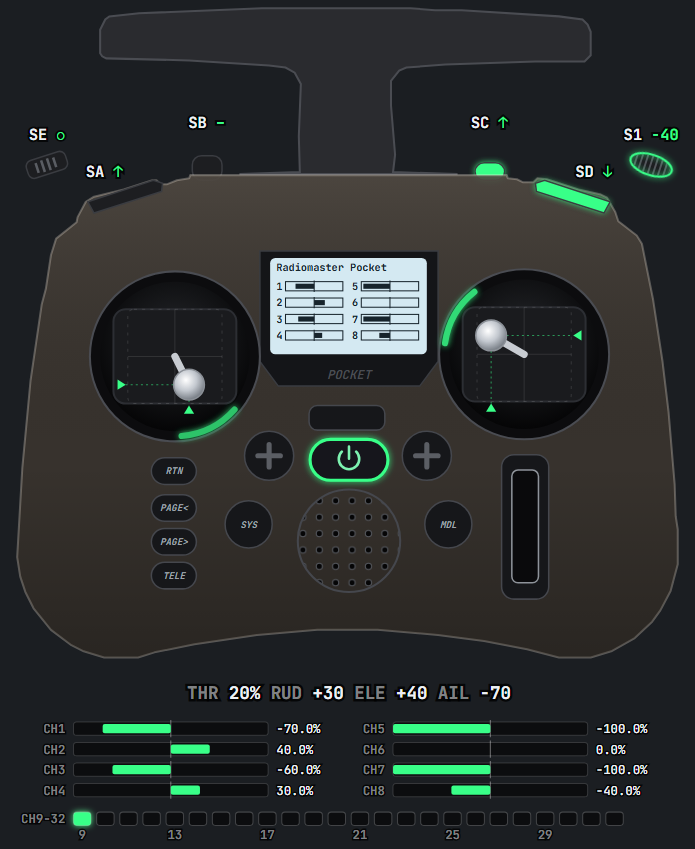
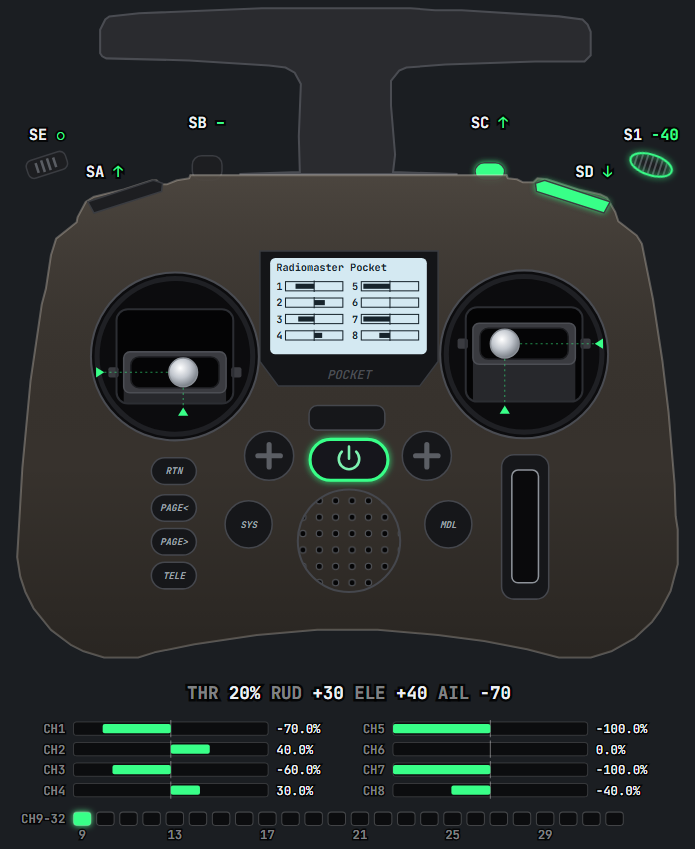
Draw the gimbals like the Pocket's; test rates at the radio's real speed
Gimbals: the Pocket's sticks aren't radial. Each has a black opening with a
grey carriage across it: the carriage (with its slot) slides up and down
with Y, and the stick rides left and right along the slot with X. Drawn
that way now, measured on the product photo, replacing the centre shaft and
rim arc that made it look like a radial joystick. Render tests check the
slot follows the knob's Y, never moves sideways, and the knob stays in it;
two new planted bugs (slot not following, knob leaving the slot) are caught.

Rate test: split into an extreme flood (at most one update per frame,
catches up within a second) and the radio's real ~1000 reports/s (last
position on screen within 60 ms, ~11 ms locally). The flood's 150 ms bound
was measuring backlog on a slow CI runner, not anything a user would see.

Changed region(s): [[0.1209, 0.3369, 0.3626, 0.5206], [0.6345, 0.3369, 0.8763, 0.49]]

diff --git a/web/index.html b/web/index.html
@@ -32,12 +32,10 @@
   .tag { fill: var(--ink); font-size: 15px; font-weight: 700; text-anchor: middle; paint-order: stroke; stroke: rgba(0,0,0,.75); stroke-width: 4px; }
   .tag .st { fill: var(--accent); }
   .knob { fill: url(#knurl); stroke: #8b9097; stroke-width: 1.5; }
-  .shaft { stroke: #c8ccd2; stroke-width: 7; stroke-linecap: round; }
   .stub { fill: #1a1b1e; stroke: #4a4c52; stroke-width: 1.5; }
   .cap { fill: url(#knurl); stroke: #8b9097; stroke-width: 1.5; }
   .caprib { stroke: rgba(0,0,0,.35); stroke-width: 1.5; }
   .trail { fill: none; stroke: var(--accent); stroke-width: 2.5; stroke-linecap: round; stroke-linejoin: round; opacity: .45; }
-  .dirarc { fill: none; stroke: var(--accent); stroke-width: 6; stroke-linecap: round; filter: url(#glow); }
   .guide { stroke: var(--accent); stroke-width: 1; stroke-dasharray: 2 3; opacity: .55; }
   .tick { fill: var(--accent); }
   .lit { fill: var(--accent) !important; filter: url(#glow); }
@@ -264,53 +262,61 @@ for (const [id, cx] of [["trimL", 423], ["trimR", 577]]) {
 }
 
 // ---------------- gimbals (front) ----------------
-// Knob position is linear in the channel value: full deflection reaches the edge of the
-// dashed travel box. Up on the stick is up on screen.
-const TRAVEL = 46, RIM = 78;
+// Drawn like the Pocket's own gimbals (measured on the product photo): a black opening in
+// the round bezel with a grey carriage across it. The carriage, with its slot, slides up
+// and down with the stick's Y; the knob rides left and right along the slot with X.
+// Both are linear in the channel value.
+const TRAVEL_X = 27, TRAVEL_Y = 26;
+const OPEN_W = 114, OPEN_H = 92;
 function buildGimbal(g, cx, cy, side) {
-  el("circle", { cx, cy, r: 83, fill: "#0c0c0e", stroke: "#4a4c52", "stroke-width": 2 }, g);
-  el("circle", { cx, cy, r: 73, fill: "url(#well)" }, g);
-  el("rect", { x: cx - 60, y: cy - 46, width: 120, height: 92, rx: 12, fill: "#1a1b1e", stroke: "#2c2e33", "stroke-width": 2 }, g);
-  el("rect", { "data-test": `travel-${side}`, x: cx - TRAVEL, y: cy - TRAVEL, width: TRAVEL * 2, height: TRAVEL * 2, rx: 6,
-               fill: "none", stroke: "rgba(255,255,255,.12)", "stroke-dasharray": "3 5" }, g);
-  el("path", { d: `M${cx - TRAVEL} ${cy} H${cx + TRAVEL} M${cx} ${cy - TRAVEL} V${cy + TRAVEL}`, stroke: "rgba(255,255,255,.10)" }, g);
-  const arc = el("path", { class: "dirarc", "data-test": `arc-${side}` }, g);
-  // value ticks: x along the bottom edge, y along the outer edge
-  const edgeX = side === "L" ? cx - TRAVEL - 7 : cx + TRAVEL + 7;
+  el("circle", { cx, cy, r: 82, fill: "#0c0c0e", stroke: "#4a4c52", "stroke-width": 2 }, g);
+  el("circle", { cx, cy, r: 76, fill: "none", stroke: "#1f2024", "stroke-width": 5 }, g);
+  const ox = cx - OPEN_W / 2, oy = cy - OPEN_H / 2;
+  el("rect", { x: ox, y: oy, width: OPEN_W, height: OPEN_H, rx: 11, fill: "#040405" }, g);
+  const clip = el("clipPath", { id: `opening-${side}` }, el("defs", {}, g));
+  el("rect", { x: ox, y: oy, width: OPEN_W, height: OPEN_H, rx: 11 }, clip);
+
+  // carriage: skirt below, slot frame, the slot itself (clipped to the opening)...
+  const inside = el("g", { "clip-path": `url(#opening-${side})` }, g);
+  const carriage = el("g", { "data-test": `carriage-${side}` }, inside);
+  el("rect", { x: cx - 50, y: cy + 14, width: 100, height: 80, fill: "#27282c" }, carriage);
+  el("rect", { x: cx - 50, y: cy - 20, width: 100, height: 40, rx: 6, fill: "#3a3b40", stroke: "#4c4e54", "stroke-width": 1.5 }, carriage);
+  el("rect", { "data-test": `slot-${side}`, x: cx - TRAVEL_X - 16, y: cy - 15, width: 2 * TRAVEL_X + 32, height: 30, rx: 8,
+               fill: "#050506", stroke: "#1c1d20", "stroke-width": 1.5 }, carriage);
+  // ...and the guide tabs it slides on, just outside the opening
+  const tabs = el("g", {}, g);
+  el("rect", { x: ox - 8, y: cy - 5, width: 10, height: 10, rx: 2, fill: "#3a3b40" }, tabs);
+  el("rect", { x: ox + OPEN_W - 2, y: cy - 5, width: 10, height: 10, rx: 2, fill: "#3a3b40" }, tabs);
+  el("rect", { x: ox, y: oy, width: OPEN_W, height: OPEN_H, rx: 11, fill: "none", stroke: "#2c2e33", "stroke-width": 2 }, g);
+
+  // test hook: the range the knob's centre covers (-1..1 on each axis)
+  el("rect", { "data-test": `travel-${side}`, x: cx - TRAVEL_X, y: cy - TRAVEL_Y, width: 2 * TRAVEL_X, height: 2 * TRAVEL_Y, fill: "none" }, g);
+
+  // value ticks: X under the opening, Y on the outer side
+  const edgeX = side === "L" ? ox - 17 : ox + OPEN_W + 17;
   const guideX = el("line", { class: "guide" }, g), guideY = el("line", { class: "guide" }, g);
   const tickX = el("path", { class: "tick", "data-test": `tickx-${side}` }, g);
   const tickY = el("path", { class: "tick", "data-test": `ticky-${side}` }, g);
-  const trail = el("polyline", { class: "trail" }, g);
-  const shaft = el("line", { class: "shaft", x1: cx, y1: cy, x2: cx, y2: cy }, g);
-  const knob = el("circle", { class: "knob", "data-test": `knob-${side}`, cx, cy, r: 15 }, g);
-  return { cx, cy, side, edgeX, arc, guideX, guideY, tickX, tickY, trail, shaft, knob, pts: [] };
+  const trail = el("polyline", { class: "trail" }, inside);
+  const knob = el("circle", { class: "knob", "data-test": `knob-${side}`, cx, cy, r: 14 }, g);
+  return { cx, cy, side, edgeX, bottom: oy + OPEN_H + 9, moving: [carriage, tabs], guideX, guideY, tickX, tickY, trail, knob, pts: [] };
 }
 const gL = buildGimbal($("gimbalL"), 331, 523, "L");
 const gR = buildGimbal($("gimbalR"), 672, 521, "R");
 
 function drawGimbal(g, s) {
   const sx = clamp(s.x), sy = clamp(s.y);
-  const x = g.cx + sx * TRAVEL, y = g.cy - sy * TRAVEL;
-  g.shaft.setAttribute("x2", x); g.shaft.setAttribute("y2", y);
+  const dy = -sy * TRAVEL_Y; // up on the stick = up on screen
+  const x = g.cx + sx * TRAVEL_X, y = g.cy + dy;
+  for (const part of g.moving) part.setAttribute("transform", `translate(0 ${dy.toFixed(2)})`);
   g.knob.setAttribute("cx", x); g.knob.setAttribute("cy", y);
 
-  const bottom = g.cy + TRAVEL + 7;
-  g.tickX.setAttribute("d", `M${x} ${bottom - 5} l5 8 h-10 Z`);
+  g.tickX.setAttribute("d", `M${x} ${g.bottom - 5} l5 8 h-10 Z`);
   const dir = g.side === "L" ? 1 : -1; // tick points inward
   g.tickY.setAttribute("d", `M${g.edgeX + 5 * dir} ${y} l${-8 * dir} 5 v-10 Z`);
-  g.guideX.setAttribute("x1", x); g.guideX.setAttribute("y1", y); g.guideX.setAttribute("x2", x); g.guideX.setAttribute("y2", bottom - 5);
+  g.guideX.setAttribute("x1", x); g.guideX.setAttribute("y1", y); g.guideX.setAttribute("x2", x); g.guideX.setAttribute("y2", g.bottom - 5);
   g.guideY.setAttribute("x1", x); g.guideY.setAttribute("y1", y); g.guideY.setAttribute("x2", g.edgeX + 5 * dir); g.guideY.setAttribute("y2", y);
 
-  // direction arc on the rim, centred on the push direction, brighter the further it goes
-  const mag = Math.min(1, Math.hypot(sx, sy));
-  if (mag < 0.03) {
-    g.arc.setAttribute("d", ""); g.arc.style.opacity = 0;
-  } else {
-    const a = Math.atan2(-sy, sx), span = 0.38;
-    const p = t => `${(g.cx + RIM * Math.cos(t)).toFixed(2)} ${(g.cy + RIM * Math.sin(t)).toFixed(2)}`;
-    g.arc.setAttribute("d", `M${p(a - span)} A${RIM} ${RIM} 0 0 1 ${p(a + span)}`);
-    g.arc.style.opacity = (0.25 + 0.75 * mag).toFixed(3);
-  }
   if (TRAIL) {
     g.pts.push(`${x.toFixed(1)},${y.toFixed(1)}`);
     if (g.pts.length > TRAIL) g.pts.shift();

diff --git a/tests/blackbox_render.rs b/tests/blackbox_render.rs
@@ -1,13 +1,12 @@
 //! Black-box rendering tests: the real binary serves the real page to headless Chrome/Edge,
 //! a virtual radio (EdgeTX's encoder -> report bytes on stdin) sets physical positions,
-//! and we measure the rendered SVG in screen space: where the knobs are, which way things
-//! point and lean, what's lit, what the text says.
+//! and we measure the rendered SVG in screen space: where the knobs and gimbal slots are,
+//! which way the paddles lean, what's lit, what the text says.
 //!
 //! Skips (and passes) when no Chromium-based browser is found; set `CHROME` to point at one.
 
 mod common;
 
-use std::f64::consts::PI;
 use std::path::PathBuf;
 use std::sync::Arc;
 use std::time::{Duration, Instant};
@@ -52,15 +51,14 @@ const MEASURE: &str = r#"(() => {
     return { x: b.x, y: b.y, w: b.width, h: b.height, cx: b.x + b.width / 2, cy: b.y + b.height / 2 }; };
   const fill = e => e ? getComputedStyle(e).fill : null;
   const o = {};
-  for (const k of ["knob-L","knob-R","travel-L","travel-R","arc-L","arc-R","tickx-L","ticky-L","tickx-R","ticky-R",
+  for (const k of ["knob-L","knob-R","travel-L","travel-R","slot-L","slot-R","tickx-L","ticky-L","tickx-R","ticky-R",
                    "sa-side","sd-side","sb-nub","sc-nub","s1-ribs","se-pad"])
     o[k] = box(k);
   o.fill = {};
   for (const k of ["sa-front","sd-front","sb-nub","sc-nub","se-pad"]) o.fill[k] = fill(q(k));
   o.fill["sa-side"] = fill(q("sa-side").firstElementChild);
   o.fill["sd-side"] = fill(q("sd-side").firstElementChild);
-  o.opacity = { "arc-L": +getComputedStyle(q("arc-L")).opacity, "arc-R": +getComputedStyle(q("arc-R")).opacity,
-                "s1-ribs": +getComputedStyle(q("s1-ribs")).opacity, front: +getComputedStyle(document.getElementById("front")).opacity };
+  o.opacity = { "s1-ribs": +getComputedStyle(q("s1-ribs")).opacity, front: +getComputedStyle(document.getElementById("front")).opacity };
   o.text = {};
   for (const k of ["tag-sa","tag-sb","tag-sc","tag-sd","tag-se","tag-s1","readout"]) o.text[k] = q(k) ? q(k).textContent : null;
   o.lcd = [...Array(8)].map((_, i) => ({ bar: box(`lcd-bar-${i + 1}`), zero: box(`lcd-zero-${i + 1}`) }));
@@ -184,16 +182,6 @@ fn pct(v: f32) -> String {
     }
 }
 
-/// Angle difference folded into -180..180 degrees.
-fn wrap(deg: f64) -> f64 {
-    (deg + 540.0).rem_euclid(360.0) - 180.0
-}
-
-/// Screen angle (degrees, counter-clockwise, 0 = pointing right) from `a` to `b`.
-fn angle(a: &Value, b: &Value) -> f64 {
-    (-(num(&b["cy"]) - num(&a["cy"]))).atan2(num(&b["cx"]) - num(&a["cx"])) * 180.0 / PI
-}
-
 // ---------------------------------------------------------------------------------------
 
 #[test]
@@ -254,24 +242,28 @@ fn sticks_render_where_they_are_pushed() {
                 "y tick",
                 &m,
             );
-            // direction arc sits on the rim in the direction of the push
-            let mag = sx.hypot(sy).min(1.0);
-            let arc = &m[format!("arc-{side}").as_str()];
-            let op = num(&m["opacity"][format!("arc-{side}").as_str()]);
-            if mag >= 0.2 {
-                let centre =
-                    serde_json::json!({ "cx": num(&travel["cx"]), "cy": num(&travel["cy"]) });
-                let want = sy.atan2(sx) * 180.0 / PI;
-                let got = angle(&centre, arc);
-                let diff = wrap(got - want);
-                assert!(
-                    diff.abs() < 6.0,
-                    "{side} arc points {got:.1}°, stick {want:.1}°\n{m}"
-                );
-                approx(op, 0.25 + 0.75 * mag, 0.01, "arc brightness", &m);
-            } else if mag < 0.03 {
-                assert_eq!(op, 0.0, "arc hidden at centre");
-            }
+            // Like the real gimbal: the slot moves up and down with the stick (never sideways)
+            // and the knob rides along inside it.
+            let slot = &m[format!("slot-{side}").as_str()];
+            approx(
+                num(&slot["cy"]),
+                num(&knob["cy"]),
+                0.6,
+                "slot follows Y",
+                &m,
+            );
+            approx(
+                num(&slot["cx"]),
+                num(&travel["cx"]),
+                0.6,
+                "slot stays centred in X",
+                &m,
+            );
+            let room = (num(&slot["w"]) - num(&knob["w"])) / 2.0;
+            assert!(
+                (num(&knob["cx"]) - num(&slot["cx"])).abs() <= room + 0.6,
+                "{side} knob outside its slot\n{m}"
+            );
         }
         let thr = js_round((f64::from(r.left_y) + 1.0) * 50.0);
         let want = format!(

diff --git a/tests/blackbox_ws.rs b/tests/blackbox_ws.rs
@@ -351,9 +351,11 @@ async fn switches_read_right_at_low_mix_weights() {
 
 #[tokio::test(flavor = "multi_thread")]
 async fn radio_rate_flood_is_smoothed_and_never_lags() {
-    // 2000 reports/s for 1.5 s, twice the most the radio sends. Viewers get at most
-    // ~120 updates/s (one per display frame), always the newest, and the last position
-    // shows up right after it's sent.
+    // Two parts:
+    // 1. A flood far beyond the radio (tens of thousands of reports/s): viewers still get at
+    //    most one update per frame, and the app catches up once it stops.
+    // 2. The radio's real rate (~1000 reports/s): the last position is on screen almost
+    //    immediately, which is what matters on stream.
     let mut ov = Overlay::start();
     let mut ws = Ws::connect(ov.port).await;
     ov.channels_fast(&sticks([0; 4]));
@@ -401,7 +403,7 @@ async fn radio_rate_flood_is_smoothed_and_never_lags() {
     let per_sec = f64::from(updates) / 1.5;
     let rate = f64::from(sent_count) / 1.5;
     eprintln!(
-        "sent {rate:.0} reports/s; viewer got {per_sec:.0} updates/s; last position shown {lag:?} after it was sent"
+        "flood: sent {rate:.0} reports/s; viewer got {per_sec:.0} updates/s; caught up {lag:?} after it stopped"
     );
     assert!(rate > 2000.0, "test only managed {rate:.0} reports/s");
     assert!(
@@ -410,8 +412,33 @@ async fn radio_rate_flood_is_smoothed_and_never_lags() {
     );
     // Windows timers tick every ~15.6 ms, so ~64/s there: still one per 60 Hz frame
     assert!(per_sec >= 55.0, "viewer starved: {per_sec:.0} updates/s");
+    assert!(lag < Duration::from_secs(1), "took {lag:?} to catch up");
+
+    // part 2: ~1000 reports/s (16 every 16 ms, as coarse OS timers allow), then a last one
+    let last = sticks([-500, 250, -125, 60]);
+    let (mut ov, sent) = tokio::task::spawn_blocking(move || {
+        let start = std::time::Instant::now();
+        let mut n = 0i16;
+        while start.elapsed() < Duration::from_secs(1) {
+            for _ in 0..16 {
+                n = n.wrapping_add(1);
+                ov.channels_fast(&sticks([n % 1000, 0, 0, 0]));
+            }
+            std::thread::sleep(Duration::from_millis(16));
+        }
+        ov.channels_fast(&last);
+        (ov, std::time::Instant::now())
+    })
+    .await
+    .unwrap();
+    ws.wait_for("the last report", |s| {
+        is_showing(s, &expected_channels(&last))
+    })
+    .await;
+    let lag = sent.elapsed();
+    eprintln!("radio rate: last position shown {lag:?} after it was sent");
     assert!(
-        lag < Duration::from_millis(150),
+        lag < Duration::from_millis(60),
         "last position took {lag:?}"
     );
     ov.line("disconnect");

diff --git a/tools/mutants.py b/tools/mutants.py
@@ -13,11 +13,15 @@ ROOT = Path(__file__).resolve().parent.parent
 # (name, file, original, mutated, test binary, test filter)
 MUTANTS = [
     ("stick y drawn inverted", "web/index.html",
-     "y = g.cy - sy * TRAVEL", "y = g.cy + sy * TRAVEL", "blackbox_render", "sticks"),
+     "const dy = -sy * TRAVEL_Y;", "const dy = sy * TRAVEL_Y;", "blackbox_render", "sticks"),
     ("stick x drawn inverted", "web/index.html",
-     "const x = g.cx + sx * TRAVEL", "const x = g.cx - sx * TRAVEL", "blackbox_render", "sticks"),
-    ("direction arc mirrored", "web/index.html",
-     "Math.atan2(-sy, sx)", "Math.atan2(sy, sx)", "blackbox_render", "sticks"),
+     "const x = g.cx + sx * TRAVEL_X", "const x = g.cx - sx * TRAVEL_X", "blackbox_render", "sticks"),
+    ("gimbal slot doesn't move with the stick", "web/index.html",
+     "part.setAttribute(\"transform\", `translate(0 ${dy.toFixed(2)})`)",
+     "part.setAttribute(\"transform\", \"\")", "blackbox_render", "sticks"),
+    ("stick moves radially (knob leaves the slot)", "web/index.html",
+     "const x = g.cx + sx * TRAVEL_X, y = g.cy + dy;",
+     "const x = g.cx + sx * TRAVEL_X * 1.6, y = g.cy + dy;", "blackbox_render", "sticks"),
     ("paddle leans the wrong way", "web/index.html",
      "rotate(${pos ? 14 : -14}", "rotate(${pos ? -14 : 14}", "blackbox_render", "switches"),
     ("nub heights reversed", "web/index.html",

diff --git a/DEVELOPING.md b/DEVELOPING.md
@@ -71,7 +71,7 @@ The tests treat the app as a black box. They act like a radio on one end and lik
   - Edge cases:
     - no deadzone (a single EdgeTX unit off centre comes through);
     - switches mixed at low weights;
-    - a 70,000 reports/s flood (at most one update per frame, and the last position shows up promptly);
+    - rates: at the radio's ~1000 reports/s the last position is on screen within 60 ms (about 11 ms locally); a flood of tens of thousands per second still gives at most one update per frame and catches up within a second;
     - several viewers plus a frozen one;
     - rapid unplug cycles;
     - junk in the stream.
@@ -84,8 +84,8 @@ The tests treat the app as a black box. They act like a radio on one end and lik
   - two radios plugged in (it picks the Pocket);
   - reports never going backwards at 1000/s;
   - throughput (over 180,000 reports/s in a debug build).
-- **`blackbox_render`**: loads the real page in headless Chrome/Edge and measures the drawing in screen pixels: knob position (including 1% deflections), direction glow, paddle lean, what's lit, bars, text, and the setup page.
-- **`tools/mutants.py`**: plants one realistic bug at a time (inverted axes, mirrored glow, swapped switch ends, off-by-one scaling, and so on) and checks that a test catches each.
+- **`blackbox_render`**: loads the real page in headless Chrome/Edge and measures the drawing in screen pixels: knob position (including 1% deflections), the gimbal slot moving up/down with the stick while the knob rides along it, paddle lean, what's lit, bars, text, and the setup page.
+- **`tools/mutants.py`**: plants one realistic bug at a time (inverted axes, a gimbal slot that doesn't follow the stick, swapped switch ends, off-by-one scaling, and so on) and checks that a test catches each.
 
 Without the EdgeTX checkout or a C++ compiler, the tests use the Rust encoder mirror. Without Chrome or Edge, the render tests print `SKIPPED` and pass. CI (`.github/workflows/ci.yml`) fetches a pinned EdgeTX commit and runs everything on Windows, macOS and Linux.
 
